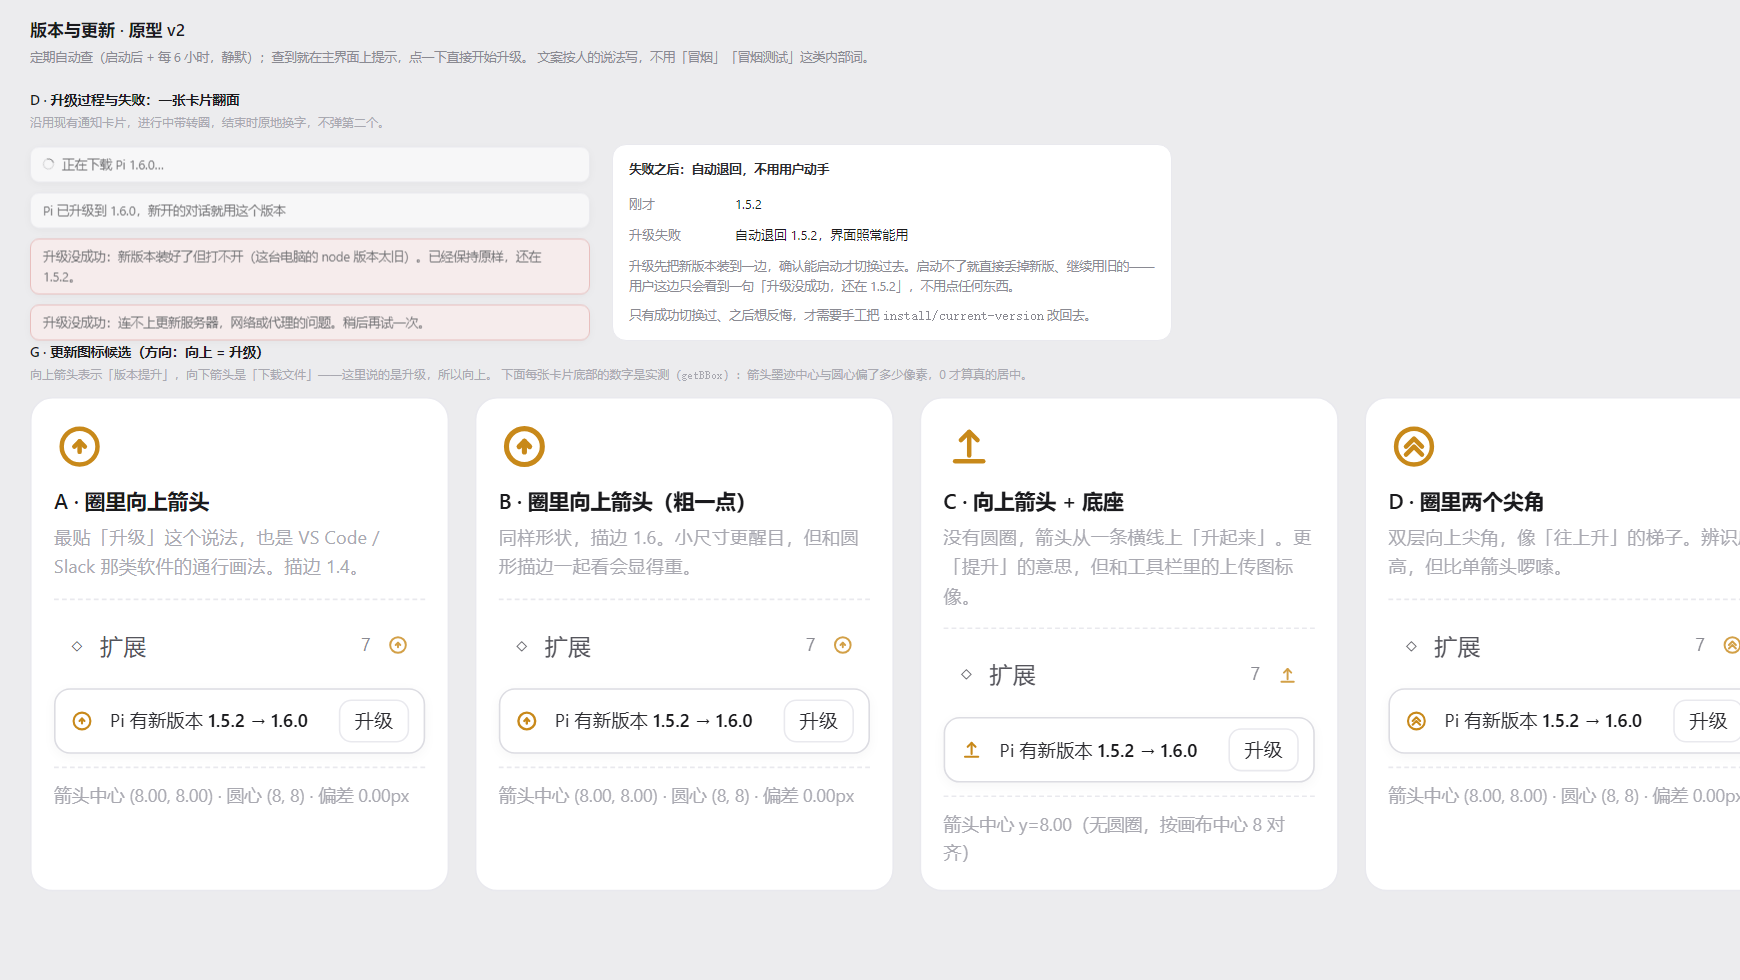
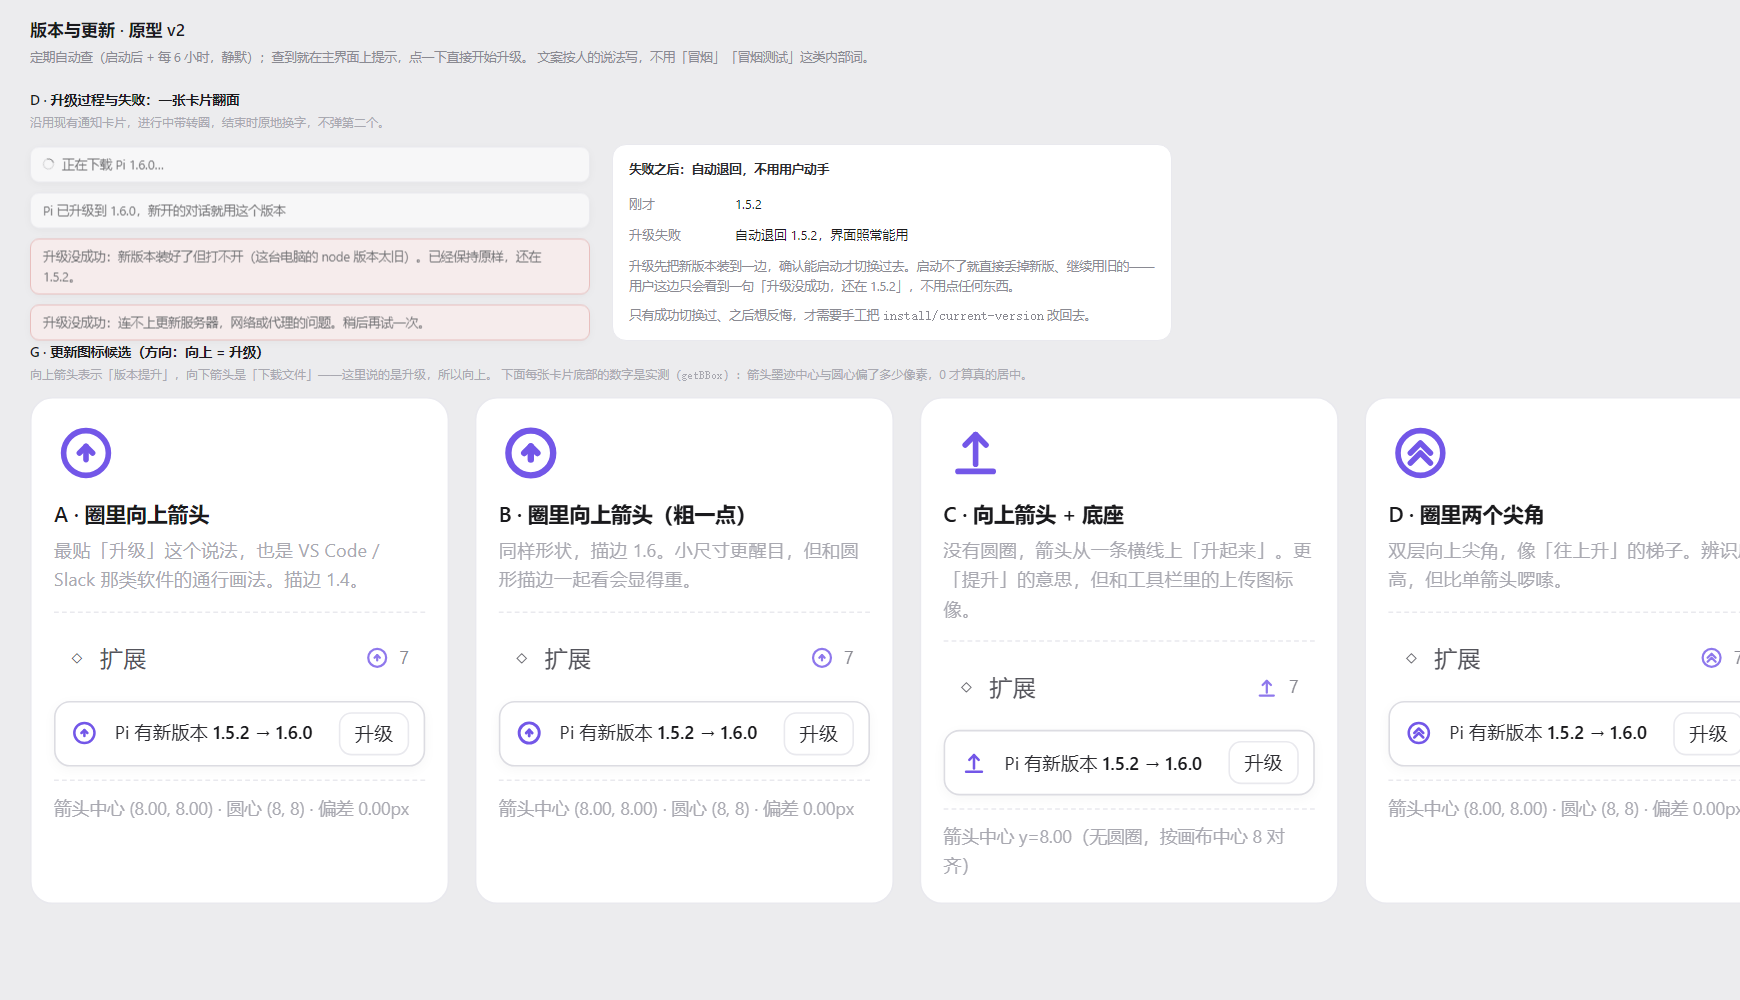
设计：更新图标加大、改升级专用紫、侧栏图标移到数字左边

diff --git a/design/updates-proto.html b/design/updates-proto.html
@@ -31,20 +31,27 @@
     border-radius: 10px; box-shadow: 0 2px 8px rgba(16, 16, 20, .04);
     font-size: calc(12.5px * var(--fs-ui)); color: var(--text-dim);
   }
-  .upd-icon { width: 15px; height: 15px; flex: 0 0 auto; color: #c8891a; }
+  /* 升级专用紫：只用在「有更新」这条线上，别扩散到别的控件。 */
+  :root { --upd: #7357e8; --upd-soft: color-mix(in oklab, var(--upd) 12%, transparent); }
+  [data-theme="dark"] { --upd: #a78bfa; --upd-soft: color-mix(in oklab, var(--upd) 18%, transparent); }
+
+  .upd-icon { width: 18px; height: 18px; flex: 0 0 auto; color: var(--upd); }
   .upd-icon svg { display: block; width: 100%; height: 100%; }
   .upd-text { flex: 1; min-width: 0; }
   .upd-text strong { font-weight: 600; color: var(--text); }
   .upd-actions { display: flex; gap: 6px; flex: 0 0 auto; }
   .upd-strip .ghost-btn.small { background: var(--card); }
   .upd-strip.busy { background: var(--panel); }
-  .upd-strip.busy .upd-dot { background: var(--text-mute); animation: pulse 1.2s ease-in-out infinite; }
+  .upd-strip.busy .upd-icon { color: var(--text-mute); animation: pulse 1.2s ease-in-out infinite; }
   .upd-strip.done { border-color: color-mix(in oklab, var(--green) 35%, var(--border)); }
-  .upd-strip.done .upd-dot { background: var(--green); }
+  .upd-strip.done .upd-icon { color: var(--green); }
   @keyframes pulse { 0%, 100% { opacity: .35; } 50% { opacity: 1; } }
 
   /* ② 侧栏上的「有更新」提示：数量徽标换成强调色的点 + 行内一行小字。 */
-  .nav-item .nav-update { width: 14px; height: 14px; flex: 0 0 auto; color: #c8891a; }
+  /* 右侧一簇：图标紧挨着数字，数字仍然跟其它行右对齐。 */
+  .nav-tail { margin-left: auto; display: flex; align-items: center; gap: 6px; }
+  .nav-tail .nav-count { margin-left: 0; }
+  .nav-item .nav-update { width: 16px; height: 16px; flex: 0 0 auto; color: var(--upd); }
   .nav-item .nav-update svg { display: block; width: 100%; height: 100%; }
   .nav-item .nav-count.is-update { color: #a9711a; }
 
@@ -60,7 +67,7 @@
   .proto-toasts .toast { position: static; }
   .icon-grid { display: flex; gap: 16px; flex-wrap: wrap; }
   .icon-card { width: 262px; padding: 14px; background: var(--card); border: 1px solid var(--border); border-radius: var(--radius-card); }
-  .icon-big { width: 32px; height: 32px; margin-bottom: 8px; }
+  .icon-big { width: 40px; height: 40px; margin-bottom: 8px; }
   .icon-big svg { width: 100%; height: 100%; }
   .icon-name { font-size: calc(13px * var(--fs-ui)); font-weight: 600; }
   .icon-note { margin: 3px 0 10px; font-size: calc(11.5px * var(--fs-ui)); color: var(--text-faint); min-height: 3em; }
@@ -96,7 +103,7 @@
           <nav class="nav">
             <button class="nav-item"><span class="nav-icon">◧</span>对话<span class="nav-count">2</span></button>
             <button class="nav-item"><span class="nav-icon">✦</span>技能<span class="nav-count">18</span></button>
-            <button class="nav-item"><span class="nav-icon">◇</span>扩展<span class="nav-count">7</span><span class="nav-update"><svg viewBox="0 0 16 16" fill="none" stroke="currentColor" stroke-width="1.4" stroke-linecap="round" stroke-linejoin="round"><circle cx="8" cy="8" r="5.6"/><path d="M8 9.65V6.35"/><path d="M6.35 8 8 6.35 9.65 8"/></svg></span></button>
+            <button class="nav-item"><span class="nav-icon">◇</span>扩展<span class="nav-tail"><span class="nav-update"><svg viewBox="0 0 16 16" fill="none" stroke="currentColor" stroke-width="1.4" stroke-linecap="round" stroke-linejoin="round"><circle cx="8" cy="8" r="5.6"/><path d="M8 9.65V6.35"/><path d="M6.35 8 8 6.35 9.65 8"/></svg></span><span class="nav-count">7</span></span></button>
             <button class="nav-item"><span class="nav-icon">≡</span>设置</button>
           </nav>
           <div class="threads-head"><span class="threads-title">对话</span></div>
@@ -159,16 +166,16 @@
 
 <div class="block">
   <h2>B · 侧栏：扩展那一条自己会亮</h2>
-  <p class="why">扩展有更新时，「扩展」这一行的数量变成橙色并在后面加一个点；点进扩展页就是 D 区那样，每行标出哪个有新版。</p>
+  <p class="why">扩展有更新时，「扩展」这一行的数字左边出现紫色更新图标（数字仍在最右，跟其它行对齐）；点进扩展页每行标出哪个有新版。</p>
   <div class="stage-row">
     <div class="frame">
       <div class="page-card">
         <h3>侧栏两态</h3>
         <nav class="nav" style="display:flex;flex-direction:column;gap:2px">
           <button class="nav-item"><span class="nav-icon">◇</span>扩展<span class="nav-count">7</span></button>
-          <button class="nav-item is-active"><span class="nav-icon">◇</span>扩展<span class="nav-count">7</span><span class="nav-update"><svg viewBox="0 0 16 16" fill="none" stroke="currentColor" stroke-width="1.4" stroke-linecap="round" stroke-linejoin="round"><circle cx="8" cy="8" r="5.6"/><path d="M8 9.65V6.35"/><path d="M6.35 8 8 6.35 9.65 8"/></svg></span></button>
+          <button class="nav-item is-active"><span class="nav-icon">◇</span>扩展<span class="nav-tail"><span class="nav-update"><svg viewBox="0 0 16 16" fill="none" stroke="currentColor" stroke-width="1.4" stroke-linecap="round" stroke-linejoin="round"><circle cx="8" cy="8" r="5.6"/><path d="M8 9.65V6.35"/><path d="M6.35 8 8 6.35 9.65 8"/></svg></span><span class="nav-count">7</span></span></button>
         </nav>
-        <p class="page-note" style="margin-top:12px">数字始终是「装了几个」，有新版就多一个橙点；具体几个在扩展页里看，不把两个数挤在一起。</p>
+        <p class="page-note" style="margin-top:12px">数字始终是「装了几个」并保持右对齐；有新版就在它左边加一枚紫色更新图标，不把两个数挤在一起。</p>
       </div>
     </div>
 
@@ -271,11 +278,11 @@
   下面每张卡片底部的数字是实测（<code>getBBox</code>）：箭头墨迹中心与圆心偏了多少像素，0 才算真的居中。</p>
   <div class="icon-grid">
       <div class="icon-card" data-icon="A">
-        <div class="icon-big" style="color:#c8891a"><svg viewBox="0 0 16 16" fill="none" stroke="currentColor" stroke-width="1.4" stroke-linecap="round" stroke-linejoin="round"><circle cx="8" cy="8" r="5.6"/><path d="M8 9.65V6.35"/><path d="M6.35 8 8 6.35 9.65 8"/></svg></div>
+        <div class="icon-big" style="color:var(--upd)"><svg viewBox="0 0 16 16" fill="none" stroke="currentColor" stroke-width="1.4" stroke-linecap="round" stroke-linejoin="round"><circle cx="8" cy="8" r="5.6"/><path d="M8 9.65V6.35"/><path d="M6.35 8 8 6.35 9.65 8"/></svg></div>
         <div class="icon-name">A · 圈里向上箭头</div>
         <div class="icon-note">最贴「升级」这个说法，也是 VS Code / Slack 那类软件的通行画法。描边 1.4。</div>
         <div class="icon-demo">
-          <div class="nav-item" style="width:100%;pointer-events:none"><span class="nav-icon">◇</span>扩展<span class="nav-count">7</span><span class="nav-update"><svg viewBox="0 0 16 16" fill="none" stroke="currentColor" stroke-width="1.4" stroke-linecap="round" stroke-linejoin="round"><circle cx="8" cy="8" r="5.6"/><path d="M8 9.65V6.35"/><path d="M6.35 8 8 6.35 9.65 8"/></svg></span></div>
+          <div class="nav-item" style="width:100%;pointer-events:none"><span class="nav-icon">◇</span>扩展<span class="nav-tail"><span class="nav-update"><svg viewBox="0 0 16 16" fill="none" stroke="currentColor" stroke-width="1.4" stroke-linecap="round" stroke-linejoin="round"><circle cx="8" cy="8" r="5.6"/><path d="M8 9.65V6.35"/><path d="M6.35 8 8 6.35 9.65 8"/></svg></span><span class="nav-count">7</span></span></div>
           <div class="upd-strip" style="margin:8px 0 0">
             <span class="upd-icon"><svg viewBox="0 0 16 16" fill="none" stroke="currentColor" stroke-width="1.4" stroke-linecap="round" stroke-linejoin="round"><circle cx="8" cy="8" r="5.6"/><path d="M8 9.65V6.35"/><path d="M6.35 8 8 6.35 9.65 8"/></svg></span>
             <span class="upd-text">Pi 有新版本 <strong>1.5.2 → 1.6.0</strong></span>
@@ -285,11 +292,11 @@
         <div class="icon-geo"></div>
       </div>
       <div class="icon-card" data-icon="B">
-        <div class="icon-big" style="color:#c8891a"><svg viewBox="0 0 16 16" fill="none" stroke="currentColor" stroke-width="1.6" stroke-linecap="round" stroke-linejoin="round"><circle cx="8" cy="8" r="5.6"/><path d="M8 9.65V6.35"/><path d="M6.35 8 8 6.35 9.65 8"/></svg></div>
+        <div class="icon-big" style="color:var(--upd)"><svg viewBox="0 0 16 16" fill="none" stroke="currentColor" stroke-width="1.6" stroke-linecap="round" stroke-linejoin="round"><circle cx="8" cy="8" r="5.6"/><path d="M8 9.65V6.35"/><path d="M6.35 8 8 6.35 9.65 8"/></svg></div>
         <div class="icon-name">B · 圈里向上箭头（粗一点）</div>
         <div class="icon-note">同样形状，描边 1.6。小尺寸更醒目，但和圆形描边一起看会显得重。</div>
         <div class="icon-demo">
-          <div class="nav-item" style="width:100%;pointer-events:none"><span class="nav-icon">◇</span>扩展<span class="nav-count">7</span><span class="nav-update"><svg viewBox="0 0 16 16" fill="none" stroke="currentColor" stroke-width="1.6" stroke-linecap="round" stroke-linejoin="round"><circle cx="8" cy="8" r="5.6"/><path d="M8 9.65V6.35"/><path d="M6.35 8 8 6.35 9.65 8"/></svg></span></div>
+          <div class="nav-item" style="width:100%;pointer-events:none"><span class="nav-icon">◇</span>扩展<span class="nav-tail"><span class="nav-update"><svg viewBox="0 0 16 16" fill="none" stroke="currentColor" stroke-width="1.6" stroke-linecap="round" stroke-linejoin="round"><circle cx="8" cy="8" r="5.6"/><path d="M8 9.65V6.35"/><path d="M6.35 8 8 6.35 9.65 8"/></svg></span><span class="nav-count">7</span></span></div>
           <div class="upd-strip" style="margin:8px 0 0">
             <span class="upd-icon"><svg viewBox="0 0 16 16" fill="none" stroke="currentColor" stroke-width="1.6" stroke-linecap="round" stroke-linejoin="round"><circle cx="8" cy="8" r="5.6"/><path d="M8 9.65V6.35"/><path d="M6.35 8 8 6.35 9.65 8"/></svg></span>
             <span class="upd-text">Pi 有新版本 <strong>1.5.2 → 1.6.0</strong></span>
@@ -299,11 +306,11 @@
         <div class="icon-geo"></div>
       </div>
       <div class="icon-card" data-icon="C">
-        <div class="icon-big" style="color:#c8891a"><svg viewBox="0 0 16 16" fill="none" stroke="currentColor" stroke-width="1.4" stroke-linecap="round" stroke-linejoin="round"><path d="M8 10.8V3.4"/><path d="M5.4 6 8 3.4l2.6 2.6"/><path d="M3.6 12.6h8.8"/></svg></div>
+        <div class="icon-big" style="color:var(--upd)"><svg viewBox="0 0 16 16" fill="none" stroke="currentColor" stroke-width="1.4" stroke-linecap="round" stroke-linejoin="round"><path d="M8 10.8V3.4"/><path d="M5.4 6 8 3.4l2.6 2.6"/><path d="M3.6 12.6h8.8"/></svg></div>
         <div class="icon-name">C · 向上箭头 + 底座</div>
         <div class="icon-note">没有圆圈，箭头从一条横线上「升起来」。更「提升」的意思，但和工具栏里的上传图标像。</div>
         <div class="icon-demo">
-          <div class="nav-item" style="width:100%;pointer-events:none"><span class="nav-icon">◇</span>扩展<span class="nav-count">7</span><span class="nav-update"><svg viewBox="0 0 16 16" fill="none" stroke="currentColor" stroke-width="1.4" stroke-linecap="round" stroke-linejoin="round"><path d="M8 10.8V3.4"/><path d="M5.4 6 8 3.4l2.6 2.6"/><path d="M3.6 12.6h8.8"/></svg></span></div>
+          <div class="nav-item" style="width:100%;pointer-events:none"><span class="nav-icon">◇</span>扩展<span class="nav-tail"><span class="nav-update"><svg viewBox="0 0 16 16" fill="none" stroke="currentColor" stroke-width="1.4" stroke-linecap="round" stroke-linejoin="round"><path d="M8 10.8V3.4"/><path d="M5.4 6 8 3.4l2.6 2.6"/><path d="M3.6 12.6h8.8"/></svg></span><span class="nav-count">7</span></span></div>
           <div class="upd-strip" style="margin:8px 0 0">
             <span class="upd-icon"><svg viewBox="0 0 16 16" fill="none" stroke="currentColor" stroke-width="1.4" stroke-linecap="round" stroke-linejoin="round"><path d="M8 10.8V3.4"/><path d="M5.4 6 8 3.4l2.6 2.6"/><path d="M3.6 12.6h8.8"/></svg></span>
             <span class="upd-text">Pi 有新版本 <strong>1.5.2 → 1.6.0</strong></span>
@@ -313,11 +320,11 @@
         <div class="icon-geo"></div>
       </div>
       <div class="icon-card" data-icon="D">
-        <div class="icon-big" style="color:#c8891a"><svg viewBox="0 0 16 16" fill="none" stroke="currentColor" stroke-width="1.4" stroke-linecap="round" stroke-linejoin="round"><circle cx="8" cy="8" r="5.6"/><path d="M5.5 8 8 5.5 10.5 8"/><path d="M5.5 10.5 8 8 10.5 10.5"/></svg></div>
+        <div class="icon-big" style="color:var(--upd)"><svg viewBox="0 0 16 16" fill="none" stroke="currentColor" stroke-width="1.4" stroke-linecap="round" stroke-linejoin="round"><circle cx="8" cy="8" r="5.6"/><path d="M5.5 8 8 5.5 10.5 8"/><path d="M5.5 10.5 8 8 10.5 10.5"/></svg></div>
         <div class="icon-name">D · 圈里两个尖角</div>
         <div class="icon-note">双层向上尖角，像「往上升」的梯子。辨识度高，但比单箭头啰嗦。</div>
         <div class="icon-demo">
-          <div class="nav-item" style="width:100%;pointer-events:none"><span class="nav-icon">◇</span>扩展<span class="nav-count">7</span><span class="nav-update"><svg viewBox="0 0 16 16" fill="none" stroke="currentColor" stroke-width="1.4" stroke-linecap="round" stroke-linejoin="round"><circle cx="8" cy="8" r="5.6"/><path d="M5.5 8 8 5.5 10.5 8"/><path d="M5.5 10.5 8 8 10.5 10.5"/></svg></span></div>
+          <div class="nav-item" style="width:100%;pointer-events:none"><span class="nav-icon">◇</span>扩展<span class="nav-tail"><span class="nav-update"><svg viewBox="0 0 16 16" fill="none" stroke="currentColor" stroke-width="1.4" stroke-linecap="round" stroke-linejoin="round"><circle cx="8" cy="8" r="5.6"/><path d="M5.5 8 8 5.5 10.5 8"/><path d="M5.5 10.5 8 8 10.5 10.5"/></svg></span><span class="nav-count">7</span></span></div>
           <div class="upd-strip" style="margin:8px 0 0">
             <span class="upd-icon"><svg viewBox="0 0 16 16" fill="none" stroke="currentColor" stroke-width="1.4" stroke-linecap="round" stroke-linejoin="round"><circle cx="8" cy="8" r="5.6"/><path d="M5.5 8 8 5.5 10.5 8"/><path d="M5.5 10.5 8 8 10.5 10.5"/></svg></span>
             <span class="upd-text">Pi 有新版本 <strong>1.5.2 → 1.6.0</strong></span>

diff --git a/docs/research/updates-2026-11.md b/docs/research/updates-2026-11.md
@@ -251,8 +251,8 @@ Pi              1.5.2 → 1.6.0（有新版）      [检查更新] [升级 Pi]
 
 ### 6.3 侧栏与扩展页
 
-- 侧栏「扩展」这一行：数字始终是「装了几个」，**有新版时在后面加一个橙色更新图标**（不是光一个圆点——
-  圆点只说「有变化」，说不出是什么变化），不把两个数挤在一起；
+- 侧栏「扩展」这一行：数字始终是「装了几个」并保持右对齐；**有新版时在这个数字的左边加一枚紫色更新图标**
+  （同一簇放右边，`margin-left: auto` 的容器里「图标 + 数字」，所以所有行的数字仍然对齐）；
 - 扩展页页头在有新版时出现「更新全部」，逐行的徽标写「有新版 1bfeccd」并给一个「更新」按钮；
 - 钉住版本与本地包直接写「钉住版本，不检查更新」「本地，不检查更新」，用户不会以为漏了。
 
@@ -303,6 +303,12 @@ Pi          1.5.2 → 1.6.0  [有新版]  [升级 Pi] [检查更新]
 | B | 同上，描边 1.6 | 更醒目，但和圆形描边一起看偏重 |
 | C | 向上箭头 + 底座横线 | 「升起来」的意思更强，但和工具栏的上传图标像 |
 | D | 圈里两个尖角 | 辨识度高，比单箭头啰嗦 |
+
+**颜色**：不用原来的土黄/橙色，改成**升级专用紫** —— 浅色 `#7357e8`、深色 `#a78bfa`，
+写成 `--upd` 变量。这个颜色**只出现在「有更新」这条线上**（提示条图标、侧栏徽标、设置页状态位），
+不挪去染按钮、导航选中或其它强调色。
+
+**尺寸**：提示条里 18px、侧栏行里 16px（原来 15/14 偏小）。原型候选区放大到 40px 只是为了看形状。
 
 **居中是量出来的，不是目测的。** 每个候选的 `path` 用 `getBBox()` 求墨迹外框中心，与圆心 (8, 8) 比：
 

diff --git a/docs/STATUS.md b/docs/STATUS.md
@@ -22,6 +22,18 @@
 - 已知限制（写进发布说明）：Seven Station Core 目前只放 Windows 包，之后会出 Linux 版；局域网限本地子网、没做 TLS；
   手机窄屏未调；数据库没有版本化迁移，只有「查列再补」这一处临时逻辑。
 
+## STATUS-079：更新图标加大 + 换升级专用紫 + 侧栏图标挪到数字左边（原型 v5，2026-11-22）
+
+三条改动：
+
+1. **颜色**：土黄/橙换成**升级专用紫**（浅色 `#7357e8`、深色 `#a78bfa`，变量 `--upd`）。这个紫色只出现在
+   「有更新」这条线上（提示条图标、侧栏徽标、设置页状态位），不挪去染按钮或导航选中。
+2. **尺寸**：图标加大 —— 提示条 18px（原 15）、侧栏 16px（原 14）；形状仍选 A（圈里向上箭头）。
+3. **侧栏位置**：图标放到数字**左边**，两者一起放在 `margin-left: auto` 的尾部簇里，
+   所以所有行的数字仍然右对齐（`扩展  ⊕ 7`，7 的右边缘与「对话 2」「技能 18」对齐）。
+
+截图 `design/shots/updates-proto-v2-{light,dark,icons}.png`；说明在 `docs/research/updates-2026-11.md` 6.3 / 6.6。
+
 ## STATUS-078：更新图标改成向上箭头，并按墨迹实测居中（原型 v4，2026-11-22）
 
 用户指出两点：方向反了（有新版 = 升级 = **向上**向上箭头；向下箭头是「下载文件」），以及上一个图标
